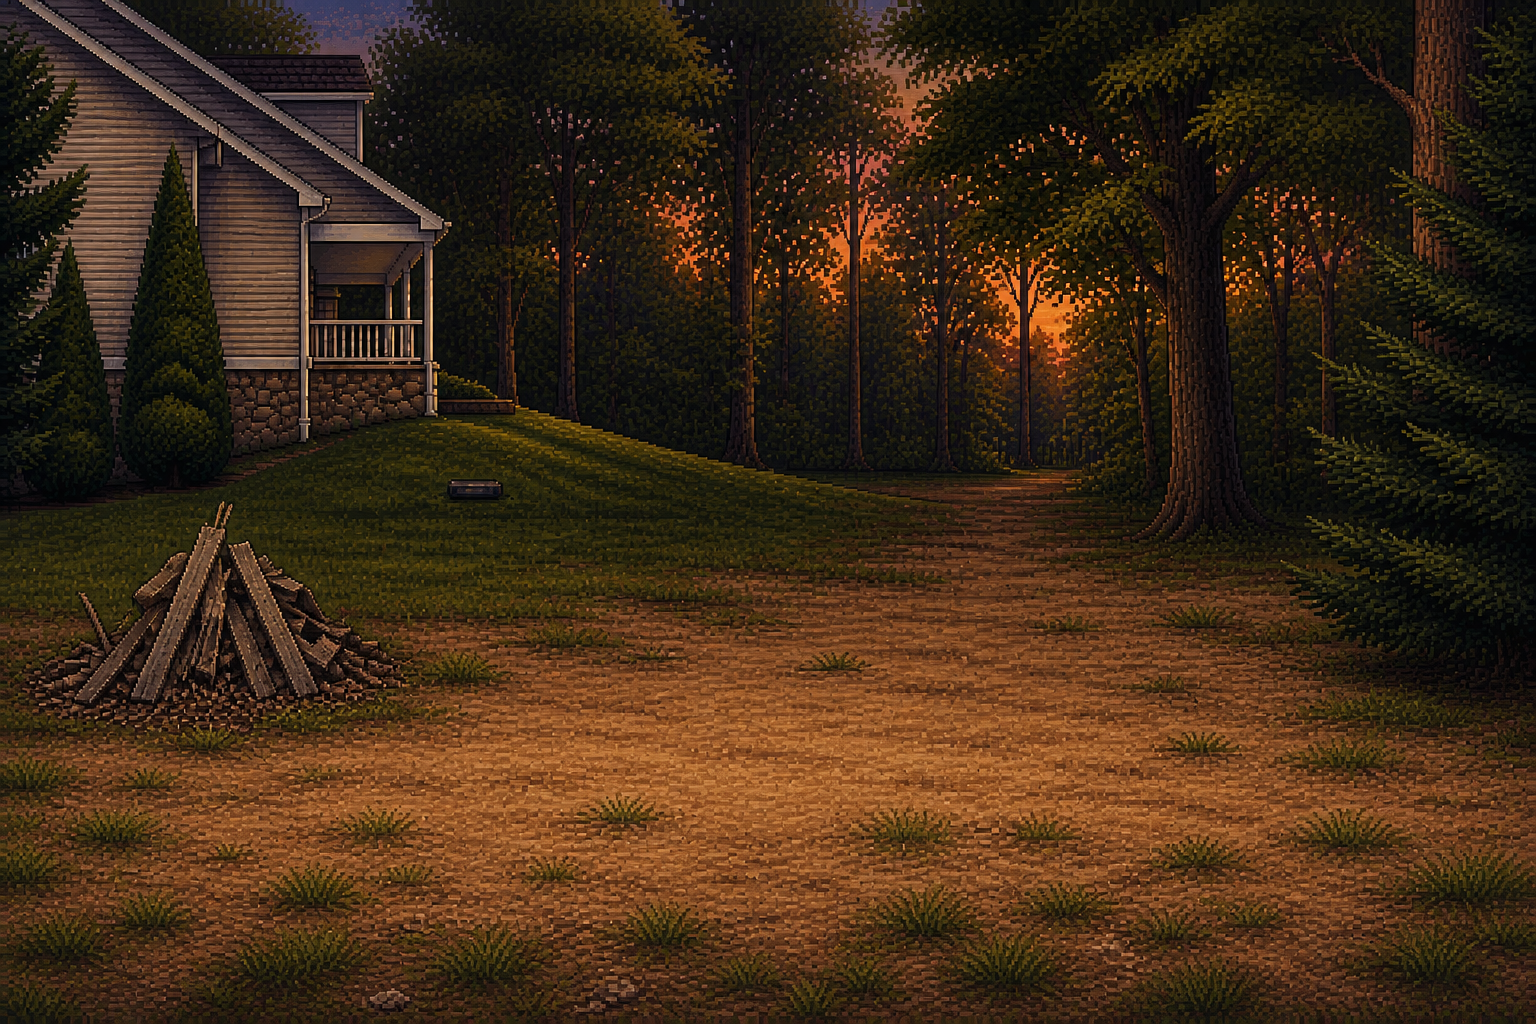
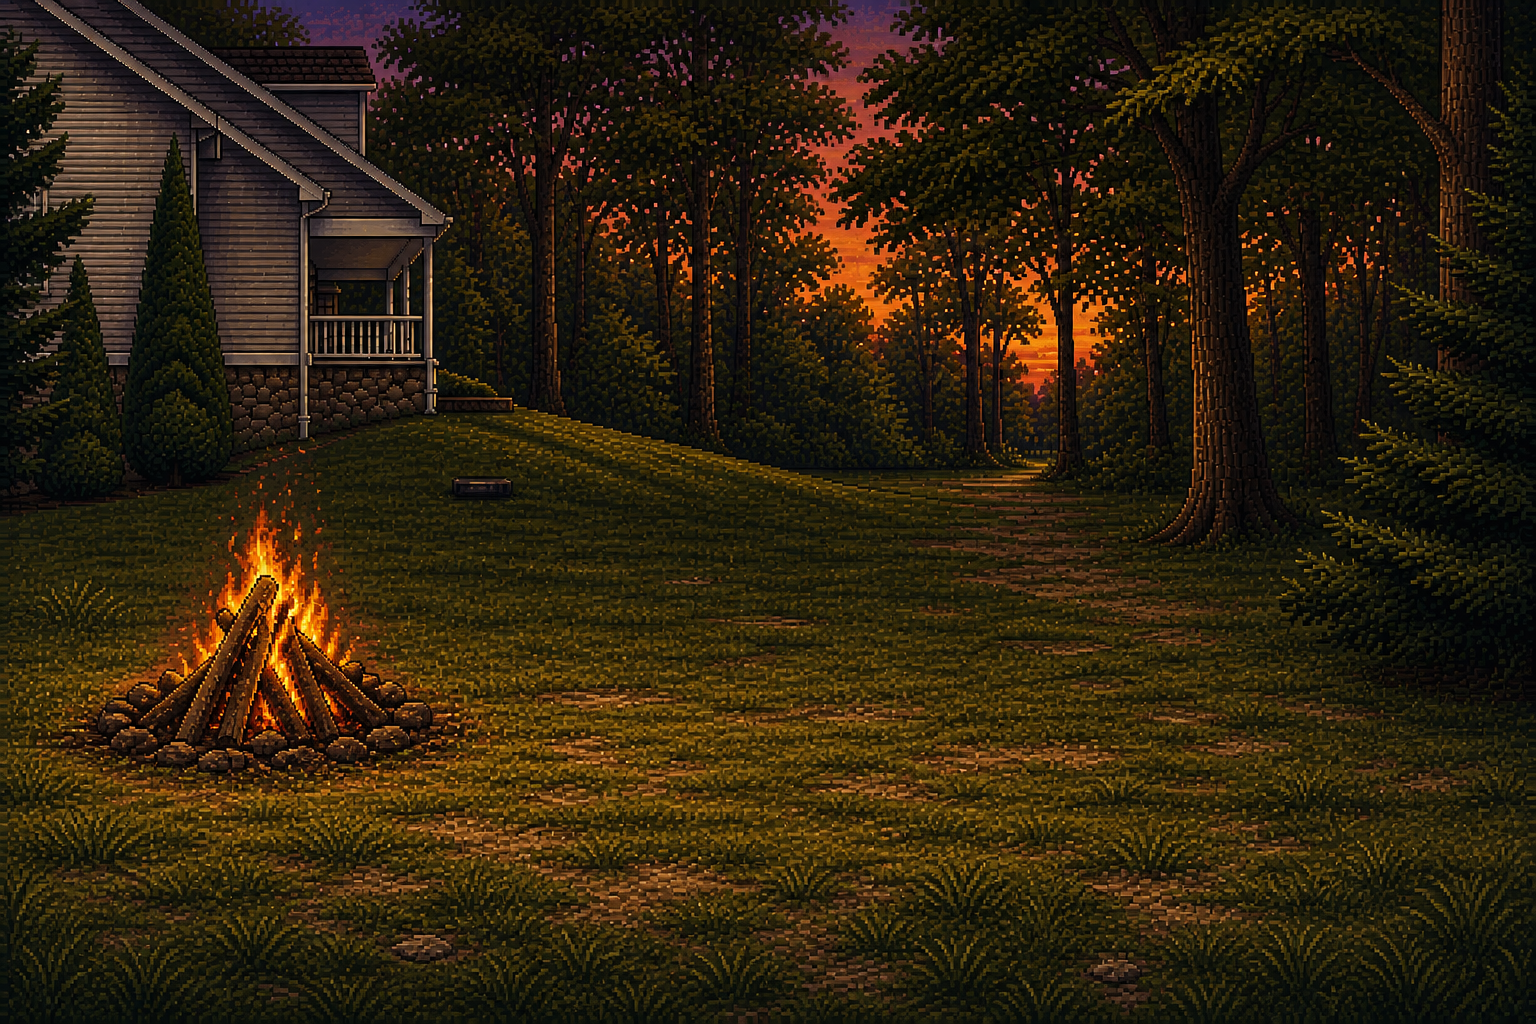
Update assets, prompts

diff --git a/index.html b/index.html
@@ -54,7 +54,7 @@
   champShovelImg.src = 'assets/champ-shovel.png';
 
   const LEVELS = [
-    { id: 'house',     label: 'The House',  background: 'assets/level/shins.png' },
+    { id: 'house',     label: "St Paul",  background: 'assets/level/shins.png' },
     { id: 'lil-italy', label: 'Lil Italy',  background: 'assets/level/lil-italy.png' },
   ];
 

diff --git a/prompts/level-template.md b/prompts/level-template.md
@@ -1,0 +1,48 @@
+Using the provided image and prompt template, generate the prompt to create a landscape based on both
+
+Retro arcade game background environment in a gritty 90s pixel art style, inspired by SNES-era fighting and sports games. Dark, moody tone with subtle realism.
+
+ENVIRONMENT:
+[LOCATION — e.g., "city rooftop at dusk", "dim office interior", "industrial alley", "empty carnival lot", "parking garage"]
+Scene should feel grounded, slightly worn, and lived-in.
+
+COMPOSITION:
+- Side-view composition designed for a 2D game stage
+- Clear, open **foreground space for character placement** (center area must be visually clean)
+- Horizon line or background elements placed higher or lower to avoid cluttering the center
+- Depth created using foreground, midground, and background layers
+
+DESIGN LANGUAGE:
+- Realistic environmental details with slight stylization
+- Subtle storytelling through objects (e.g., scattered papers, broken lights, empty desks, worn signage)
+- Avoid large focal objects in the center
+- Strong readable shapes, not noisy textures
+
+LIGHTING & MOOD:
+- Strong directional lighting (sunset, streetlights, fluorescent flicker, etc.)
+- Slightly desaturated palette with controlled highlights
+- Moody atmosphere (gritty, quiet, slightly melancholic or tense)
+- Light should help separate layers and guide focus away from the center play area
+
+STYLE:
+- High-detail pixel art illustration (not low-res sprites)
+- Visible pixel texture with crisp edges
+- Limited but rich color palette (cohesive with character designs)
+- No painterly blur
+
+BACKGROUND STRUCTURE:
+- Foreground: minimal or subtle (ground plane, floor texture)
+- Midground: main environmental elements (walls, railings, desks, machinery)
+- Background: silhouettes, skyline, distant elements with reduced detail
+
+CONSTRAINTS:
+- No characters
+- No UI, no text, no panels
+- No overly bright or distracting elements in the center
+- Avoid visual noise in gameplay area
+- Must work as a backdrop for animated sprites
+
+OUTPUT:
+- High-resolution image
+- Wide aspect ratio (landscape, suitable for side-scrolling or arena view)
+- Clean composition with clear playable space

diff --git a/plans/leaderboard-by-level.md b/plans/leaderboard-by-level.md
@@ -114,7 +114,7 @@ Update `fetchGlobalLeaderboard()` (around index.html:361) to pass the filter:
 leaderboard.globalRows = await window.globalScores.topN(GLOBAL_SCORE_LIMIT, leaderboardLevelFilter);
 ```
 
-In `drawLeaderboard()` (around index.html:1340), draw three pills above the list — `All`, `The House`, `Lil Italy`. Use the same `drawButton(rect, label, active)` helper used elsewhere. Push hit rects into `leaderboardLevelFilterRects`.
+In `drawLeaderboard()` (around index.html:1340), draw three pills above the list — `All`, ``, `Lil Italy`. Use the same `drawButton(rect, label, active)` helper used elsewhere. Push hit rects into `leaderboardLevelFilterRects`.
 
 ### Step 6 — Wire pill click handler
 

diff --git a/plans/archive/level-select.md b/plans/archive/level-select.md
@@ -17,7 +17,7 @@ Near `CHARACTERS` (index.html:60–70), add:
 
 ```js
 const LEVELS = [
-  { id: 'house',     label: 'The House',  background: 'assets/house.png' },
+  { id: 'house',     label: 'St Paul',  background: 'assets/house.png' },
   { id: 'lil-italy', label: 'Lil Italy',  background: 'assets/lil-italy.png' },
 ];
 let selectedLevelId = null;
